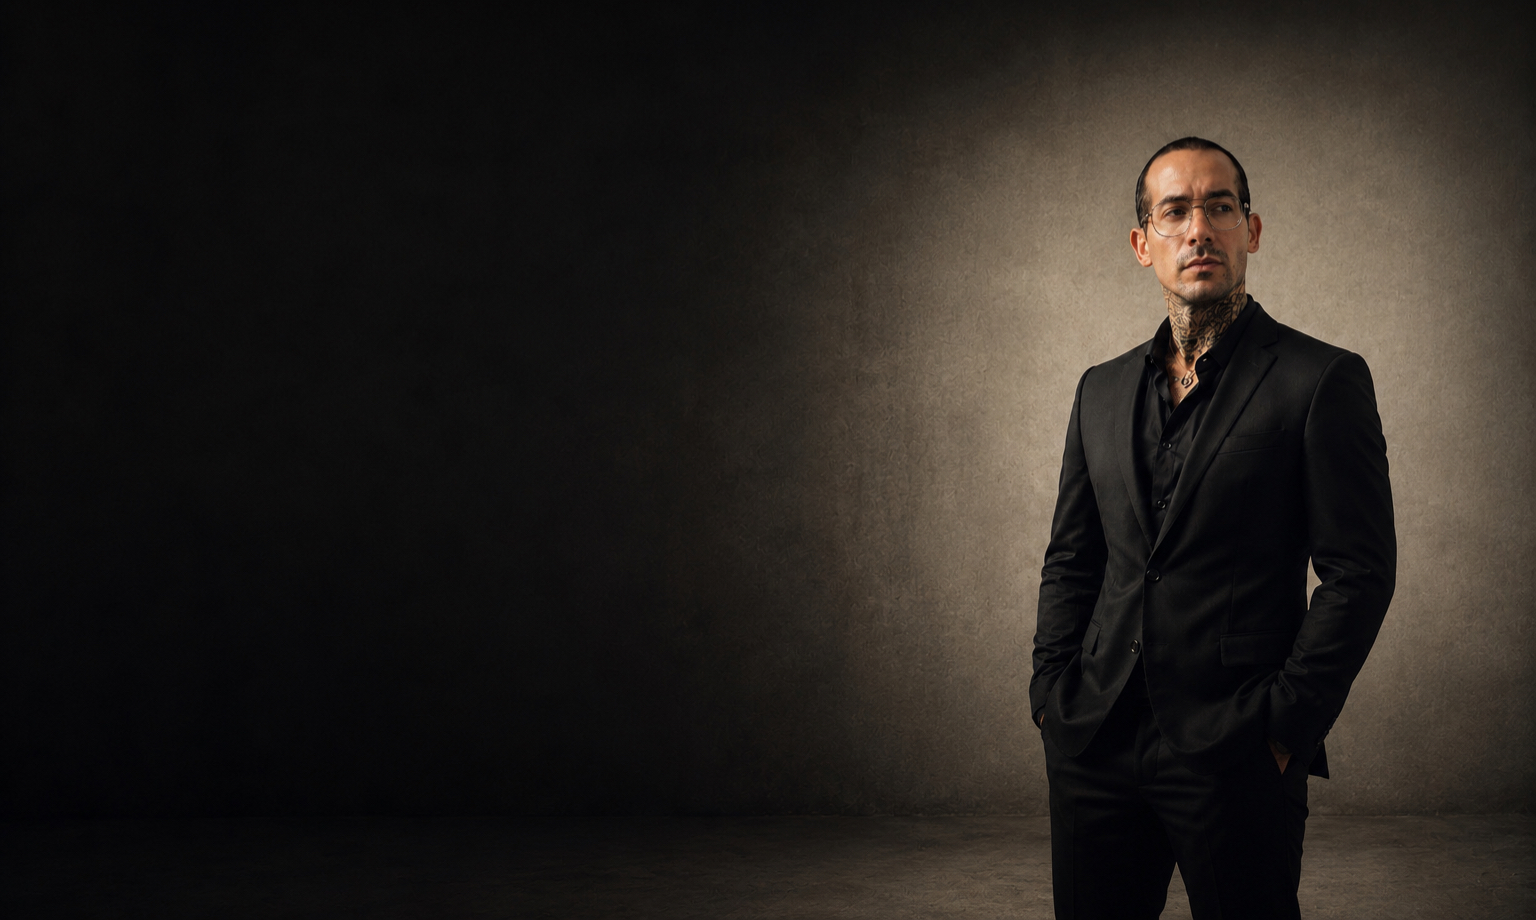
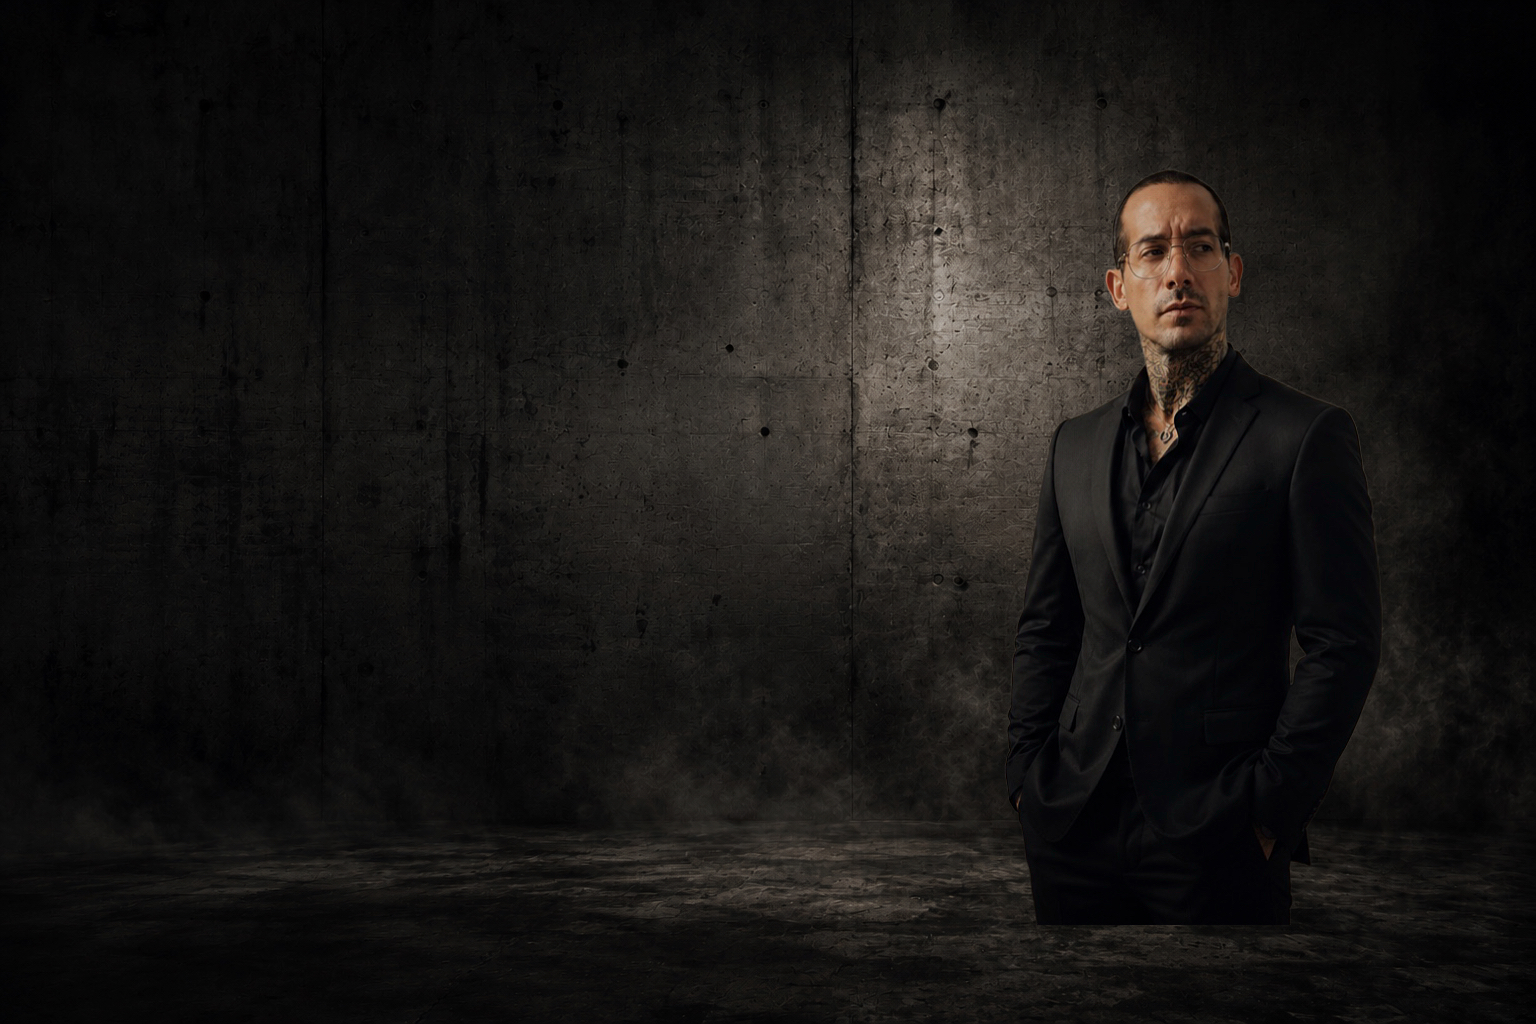
updated hero image, created About Me section

diff --git a/my-portfolio/src/components/About.jsx b/my-portfolio/src/components/About.jsx
@@ -1,3 +1,57 @@
+import Background from "../assets/images/About-me.jpg";
+
 function About() {
-  return <section></section>;
+  return (
+    <section
+      id="Hero"
+      style={{
+        minHeight: "50vh",
+        width: "100%",
+        backgroundImage: `url(${Background})`,
+        backgroundSize: "cover",
+        backgroundPosition: "40% 20%",
+        backgroundRepeat: "no-repeat",
+      }}
+    >
+      <div className="pl-[50%] pt-[50px]">
+        <p className="text-[#B88A46] text-[14px] tracking-[2px] pb-[15px] uppercase">
+          About Me
+        </p>
+        <h1 className="font-['Cormorant_Garamond'] text-[30px] font-normal tracking-[2px] text-white leading-none pb-[20px] uppercase">
+          Developer. Designer. Creator.
+        </h1>
+        <p className="text-white text-[12px] font-thin tracking-[2px] pb-[20px] leading-6">
+          I'm a Full Stack Web Developer and technical sewist with a
+          <br />
+          passion for building digital experiences and crafting custom
+          <br />
+          garments. I combine creativity, precision, and code to bring
+          <br />
+          ideas to life.
+        </p>
+        <div className="flex gap-5 pb-[20px]">
+          <button class=" text-[12px] hover:bg-[#8A8A8A] text-[#B88A46] py-2 px-5 border border-[#B88A46] uppercase rounded">
+            <a href="#Projects" className="inline-flex items-center gap-5">
+              Download Resume
+              <svg
+                class="h-4 w-4"
+                fill="none"
+                viewBox="0 0 24 24"
+                stroke-width="2"
+                stroke="currentColor"
+              >
+                <path
+                  stroke-linecap="round"
+                  stroke-linejoin="round"
+                  d="M13.5 4.5L21 12m0 0l-7.5 7.5M21 12H3"
+                />
+              </svg>
+            </a>
+          </button>
+        </div>
+      </div>
+    </section>
+  );
 }
+
+export default About;

diff --git a/my-portfolio/src/App.jsx b/my-portfolio/src/App.jsx
@@ -1,6 +1,7 @@
 import Hero from "./components/Hero";
 import Projects from "./components/Projects";
 import Skills from "./components/Skills";
+import About from "./components/About";
 
 function App() {
   return (
@@ -8,6 +9,7 @@ function App() {
       <Hero />
       <Projects />
       <Skills />
+      <About />
     </>
   );
 }

diff --git a/my-portfolio/src/components/Hero.jsx b/my-portfolio/src/components/Hero.jsx
@@ -1,4 +1,4 @@
-import Background from "../assets/images/newHeadshot.jpg";
+import Background from "../assets/images/Newheadshot.jpg";
 import NavBar from "./Navbar";
 import reactLogo from "../assets/logos/React-logo.png";
 import Wordpress from "../assets/logos/Wordpress-grey.png";
